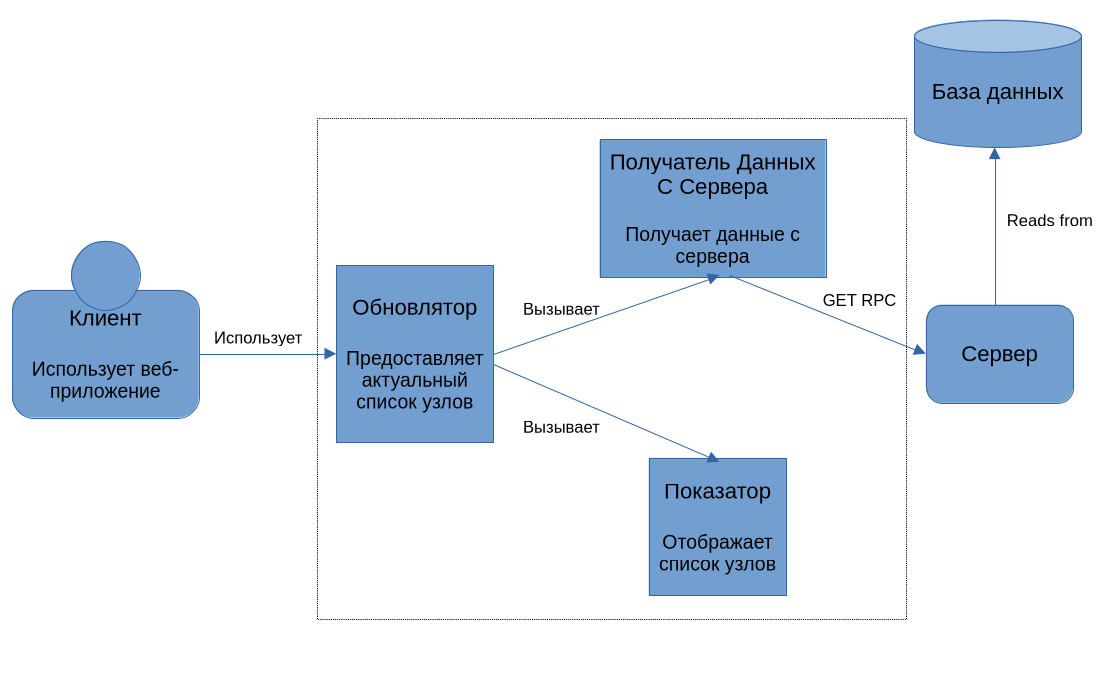
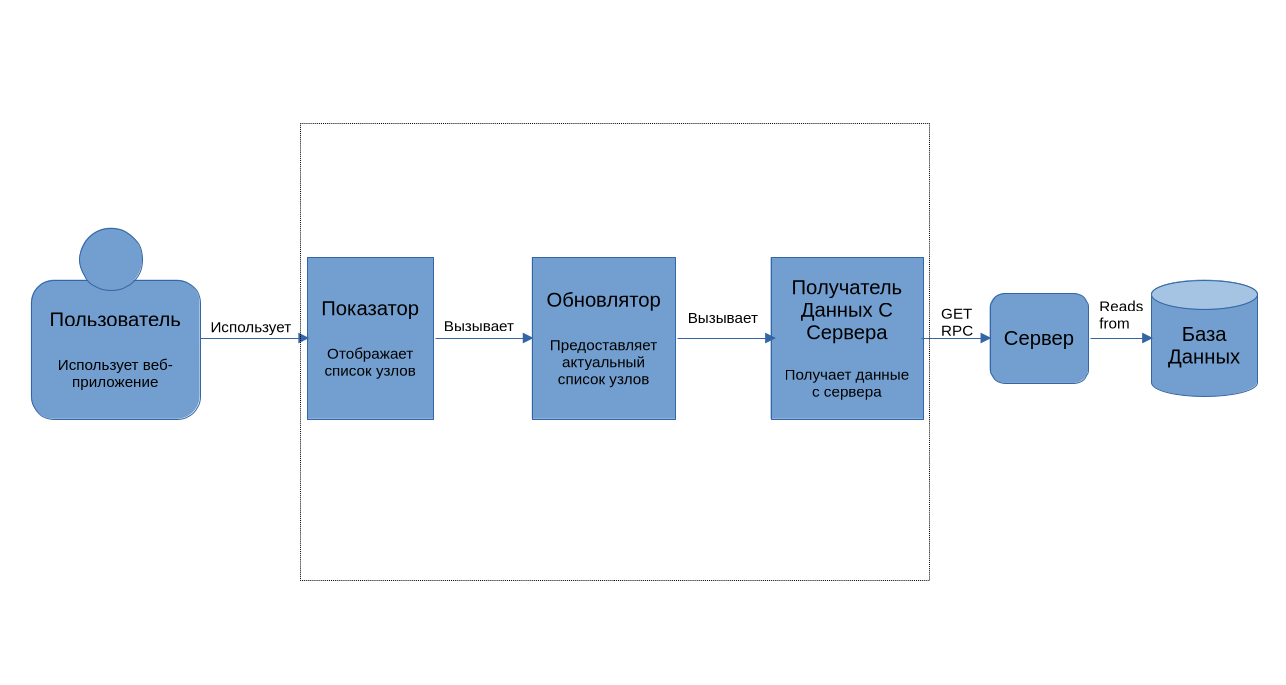
Изменения в проектировании

diff --git a/docs/TreeDesign.md b/docs/TreeDesign.md
@@ -33,9 +33,11 @@
 ### Сервисы
 
 - Показатор
-- ПолучательДанныхССервера
 - Обновлятор
-- Отправлятор данных
+- Получатель Данных С Сервера
+- Отправлятор Данных
+- Преобразоватор Данных
+- Получатель Данных Из Базы Данных
 
 ## Диаграмма C4
 
